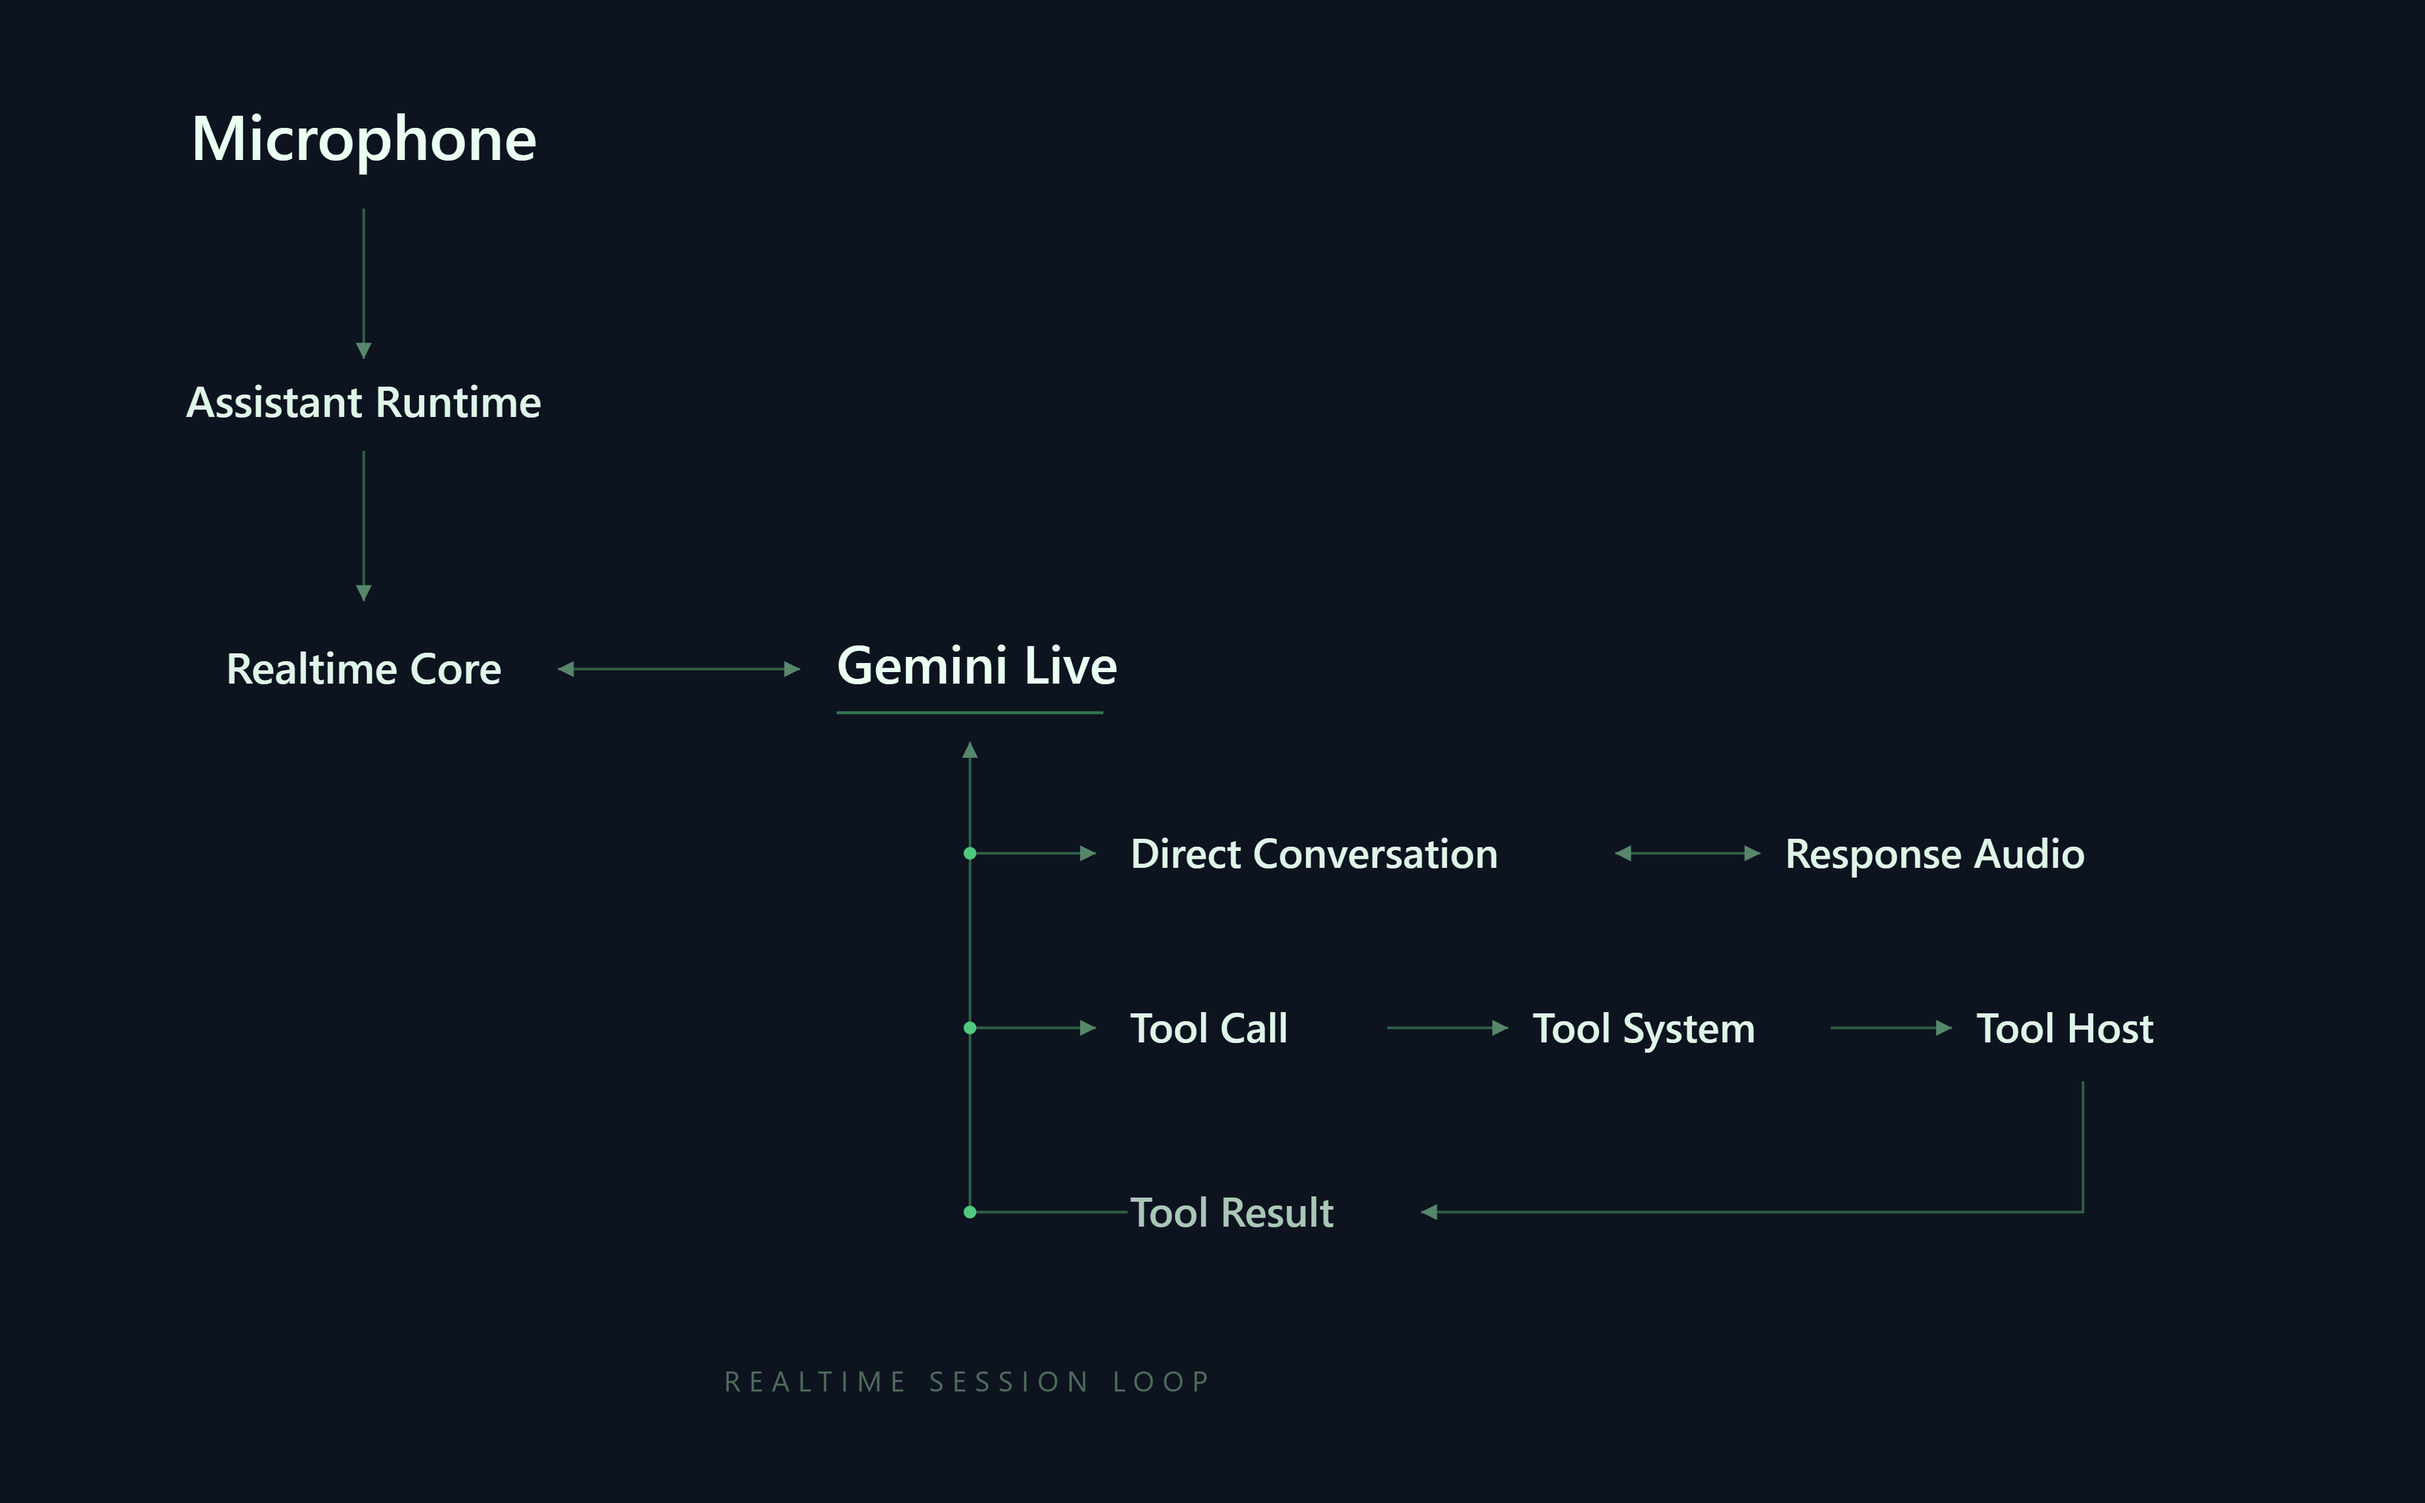
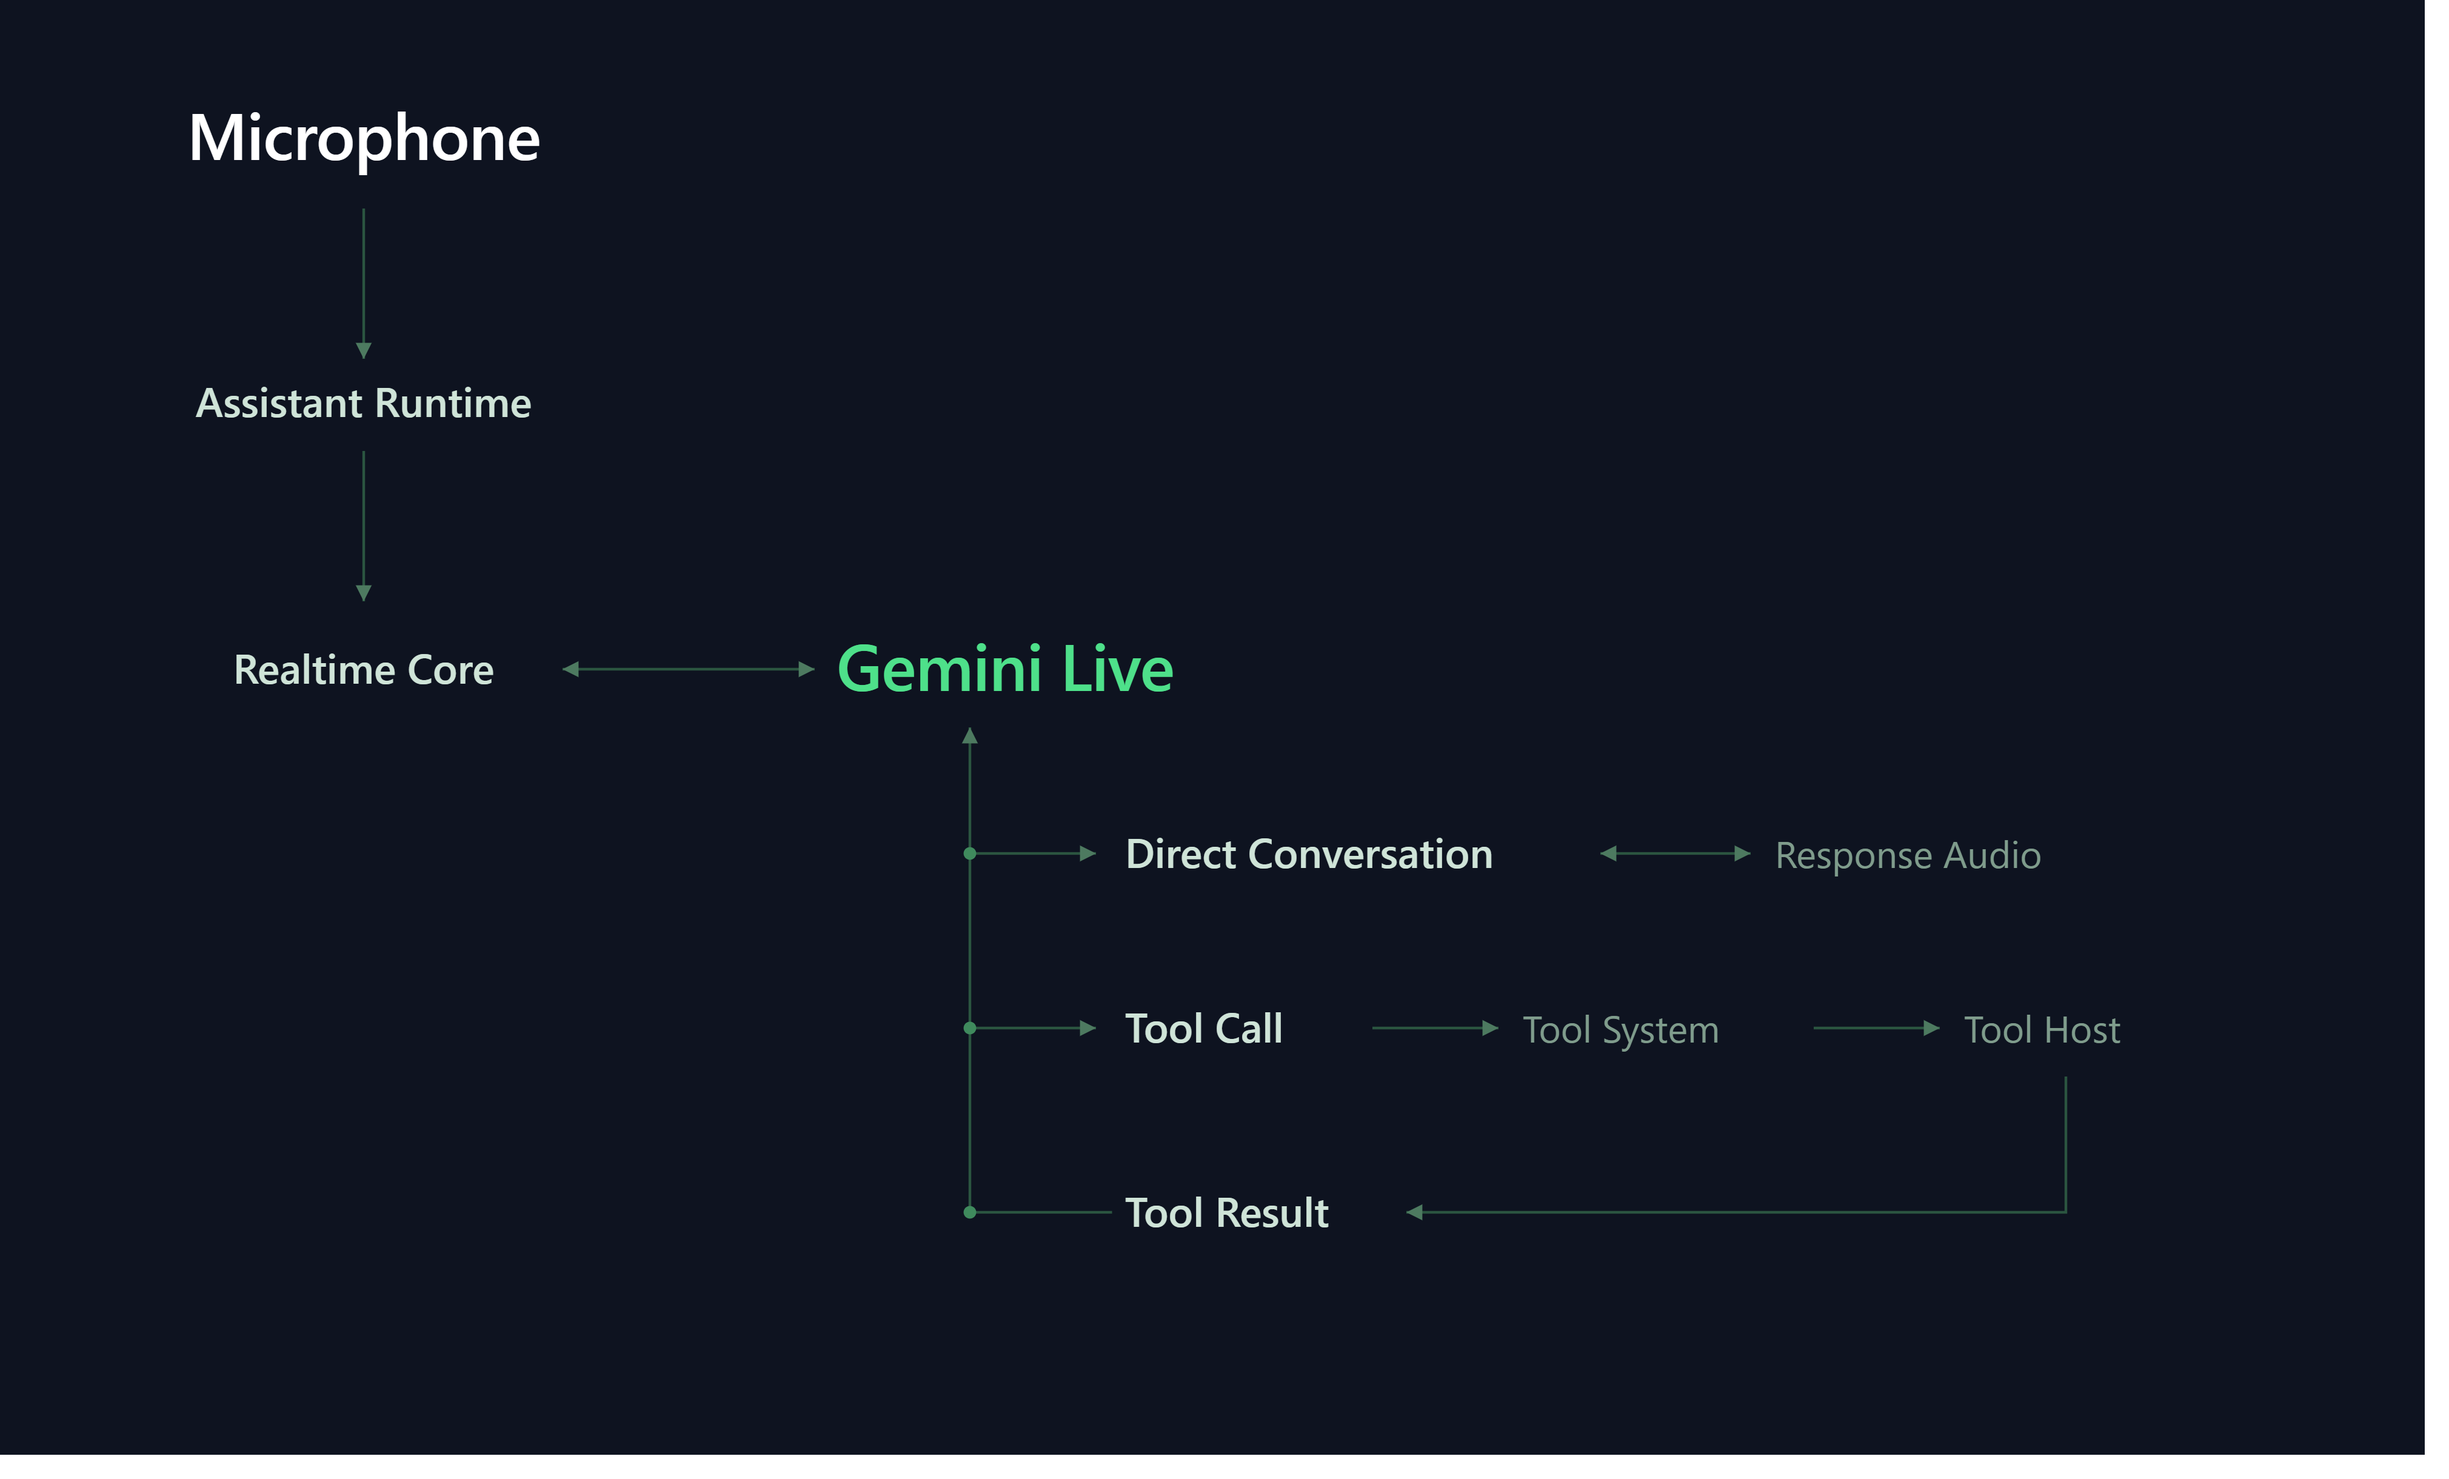
Update Mark I runtime diagram (#4)

diff --git a/README.md b/README.md
@@ -101,7 +101,7 @@ for the comparison with the cascade attempt.
 ### Native runtime path
 
 <p align="center">
-  <img src="./docs/images/mark-i-runtime-path.png" width="960" alt="Assistant Mark I native runtime path" />
+  <img src="https://raw.githubusercontent.com/Brightwav3/Assistant-mark-I/main/docs/images/mark-i-runtime-path.png" width="960" alt="Assistant Mark I native runtime path" />
 </p>
 
 ## Repository map
